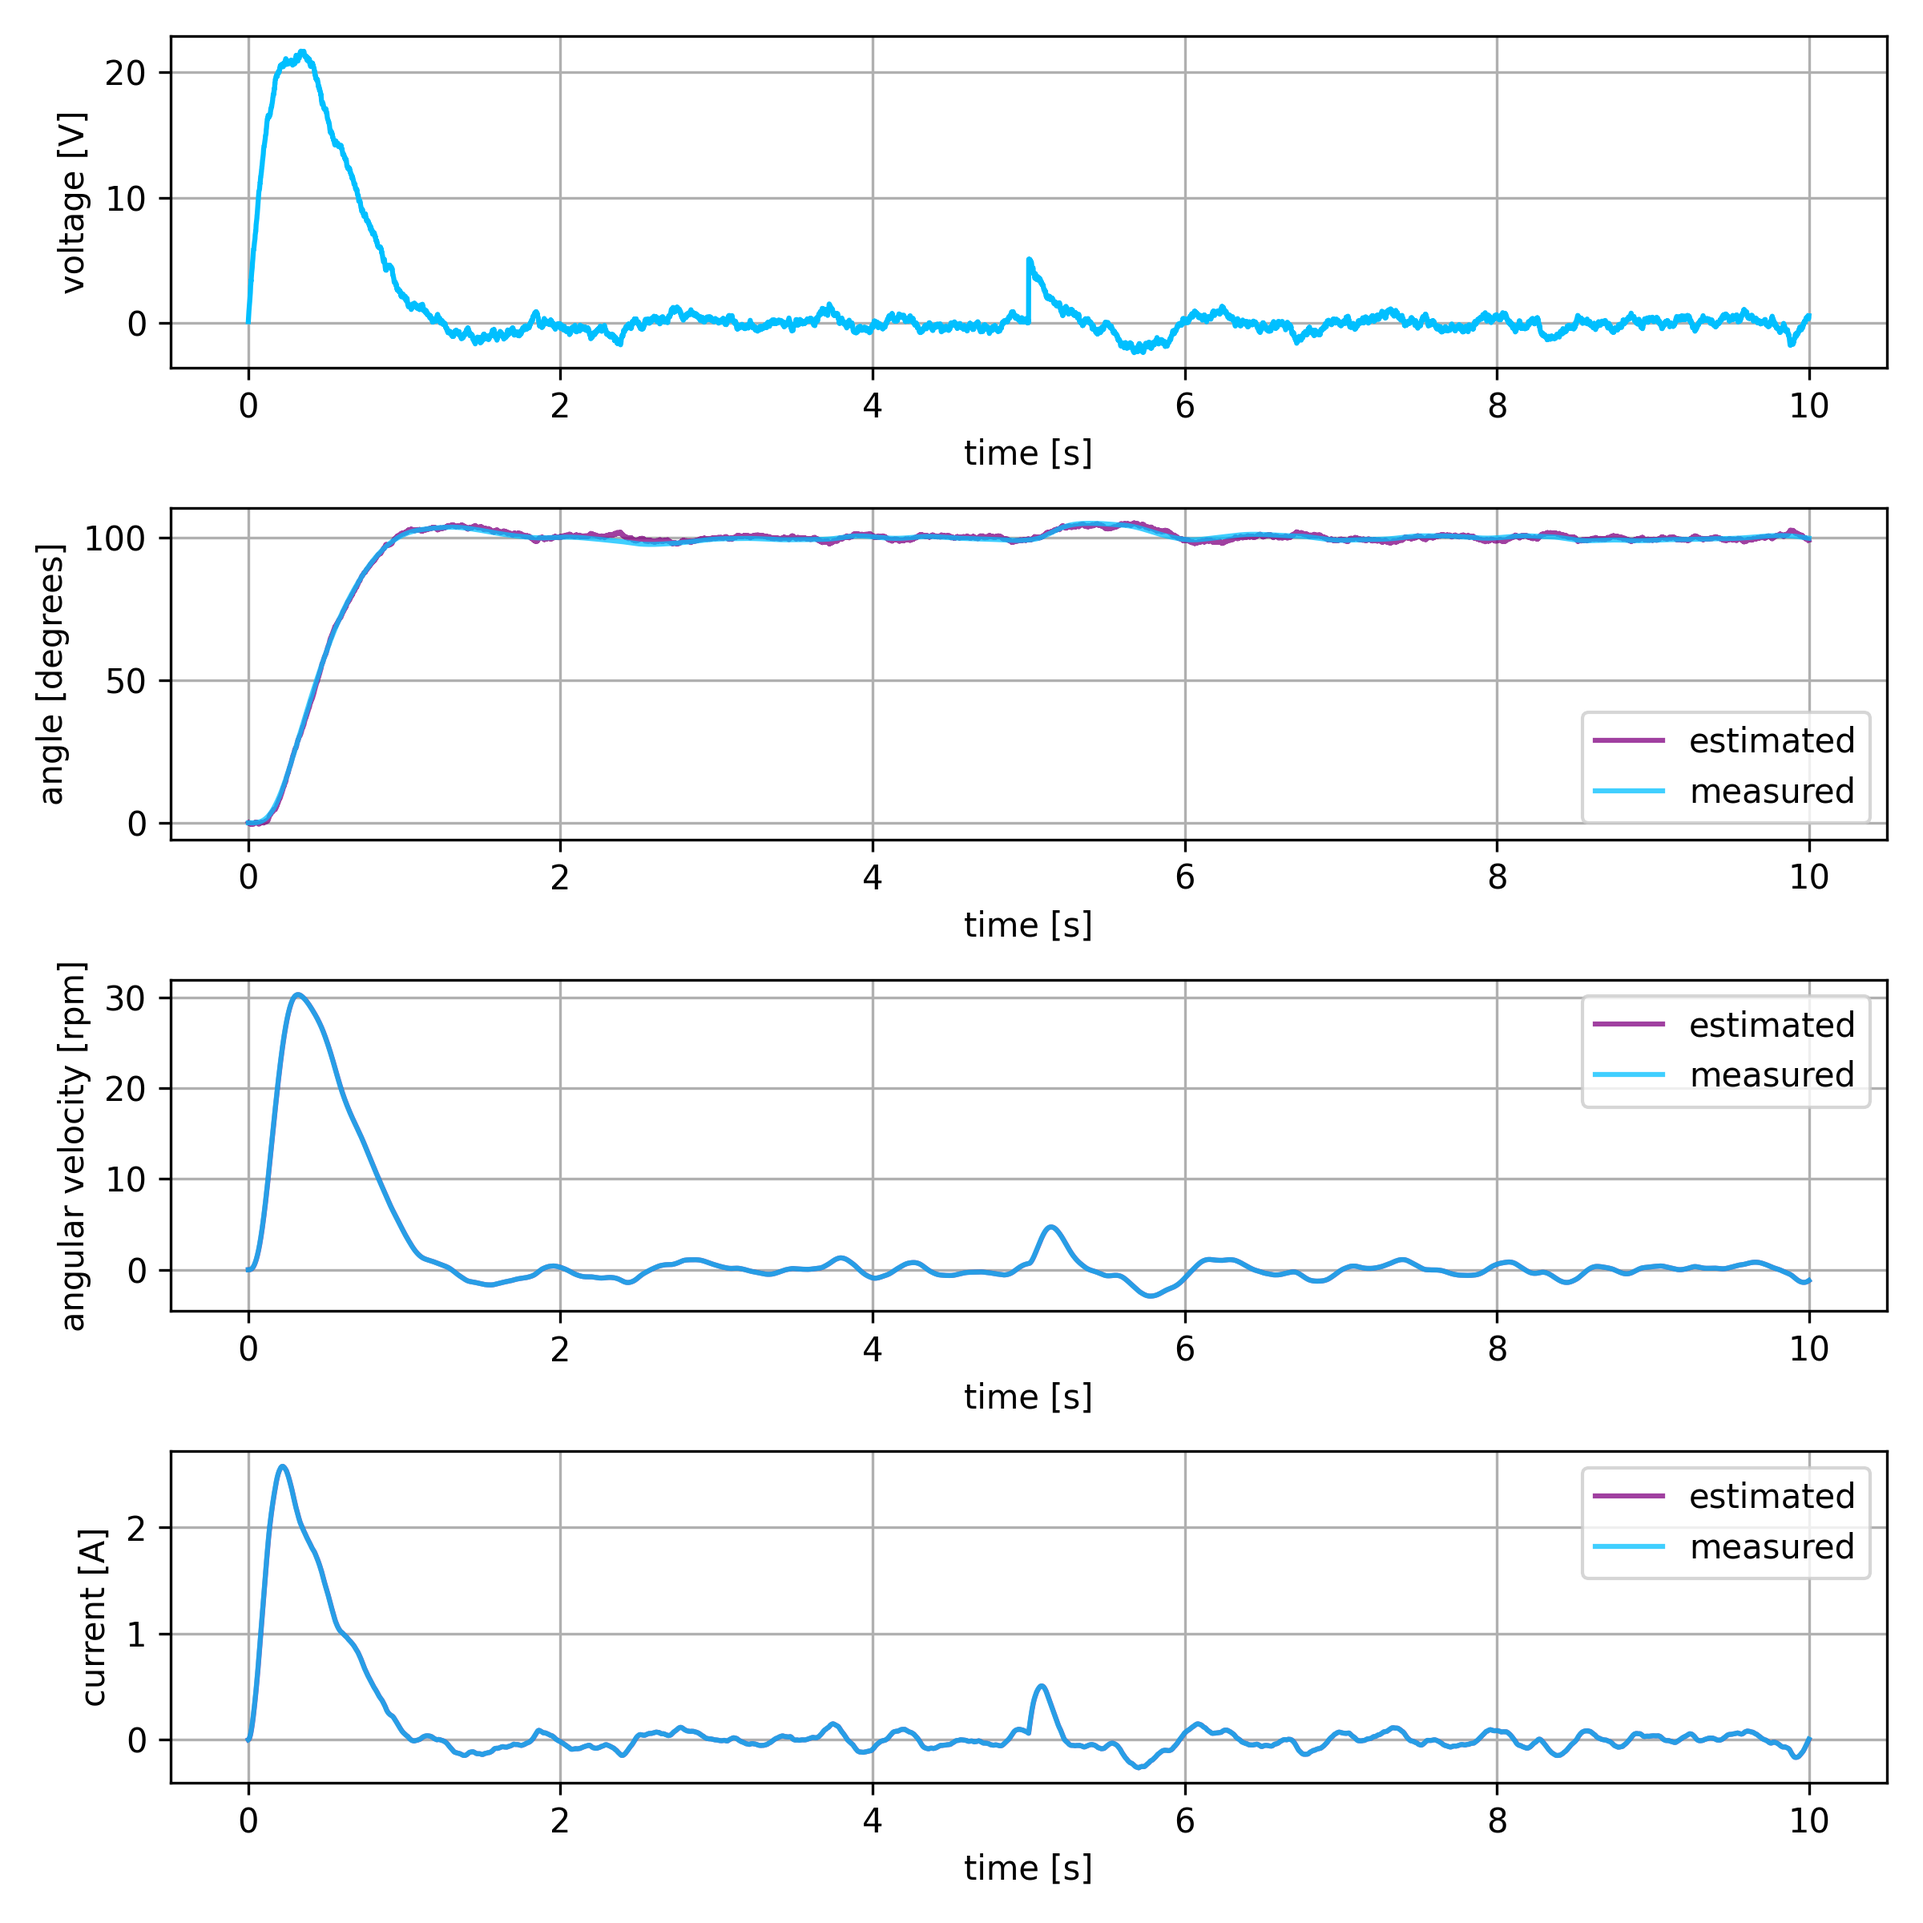
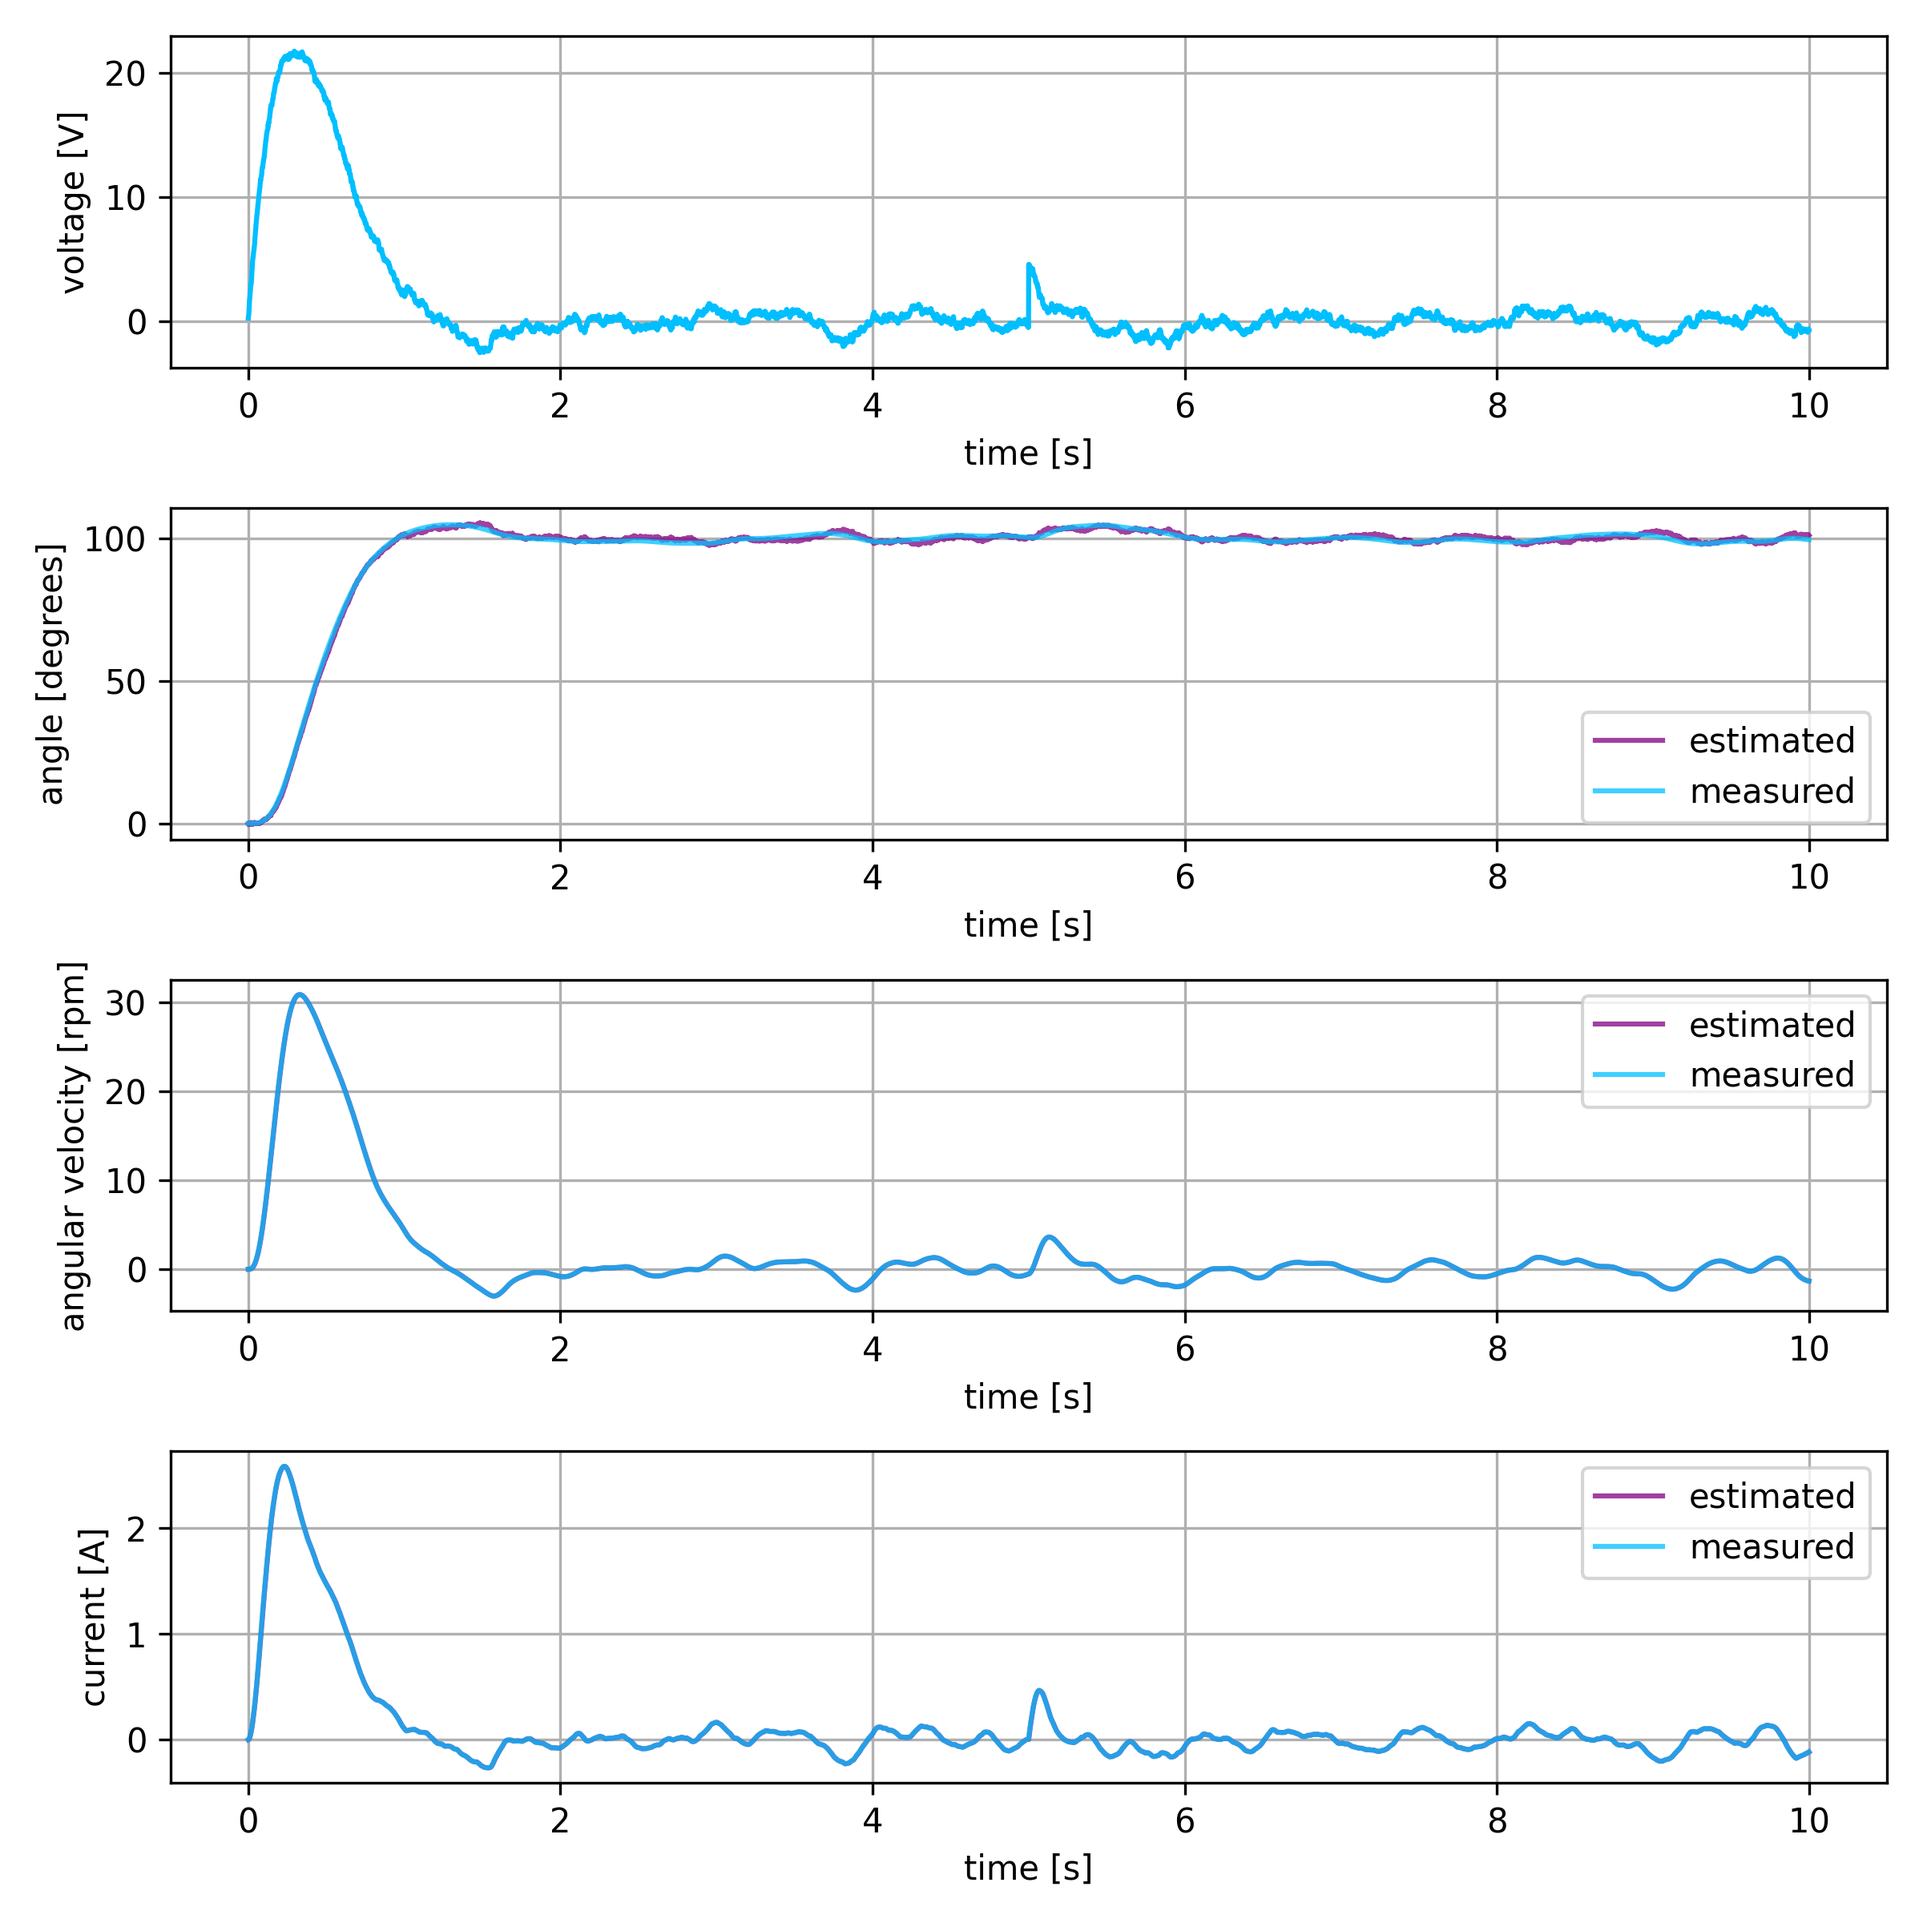
tutorial

diff --git a/examples/04_lqg_two_carts/lqg_carts.py b/examples/04_lqg_two_carts/lqg_carts.py
@@ -13,7 +13,7 @@ if __name__ == "__main__":
 
     mat_a = numpy.zeros((4, 4))
     mat_b = numpy.zeros((4, 1))
-    mat_c = numpy.zeros((4, 4))
+    mat_c = numpy.zeros((2, 4))
         
 
 
@@ -33,10 +33,7 @@ if __name__ == "__main__":
 
     mat_c[0][0] = 1.0
     mat_c[1][1] = 1.0
-    mat_c[2][2] = 1.0
-    mat_c[3][3] = 1.0
-
-
+    
 
 
     dt          = 1.0/256

diff --git a/LibsControl/libs_common/lqg_solver.py b/LibsControl/libs_common/lqg_solver.py
@@ -163,7 +163,7 @@ class LQGSolver:
           
             #apply disturbance
             if disturbance == True and n >= steps//2:
-                u+= 5
+                u+= 5 
 
             #system dynamics step
             x     = x + (a@x + b@u)*self.dt
